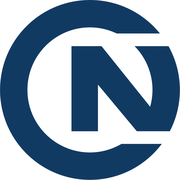
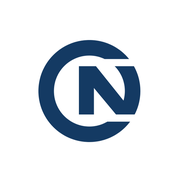
Add files via upload

diff --git a/index.html b/index.html
@@ -667,11 +667,11 @@ a{text-decoration:none;color:inherit}
     <div class="form-card">
       <h3>🔄 Recent Updates</h3>
       <div style="font-size:12px;color:#555;line-height:1.7">
+        <p style="margin:0 0 8px"><b>v50</b> — Home screen app icon replaced with the company logo; the role badge next to the user name now shows the user's actual role.</p>
         <p style="margin:0 0 8px"><b>v49</b> — Fixed deleted leads resurrecting: deletion/trash state is now applied from the central settings record on every read, so a deleted lead stays deleted on every device regardless of table schema.</p>
         <p style="margin:0 0 8px"><b>v48</b> — Cloud-direct data layer: no local storage at all. Every page fetches live data from the central database and every change is written to it immediately — deleted leads and users can never reappear.</p>
         <p style="margin:0 0 8px"><b>v47</b> — Complete sync engine overhaul: serialized queue (no more race conditions), fetch timeouts (no more frozen sync), tombstones for deleted/trashed leads, admin event applies to all users, users no longer mass-pushed (fixes role resets permanently).</p>
         <p style="margin:0 0 8px"><b>v46</b> — HEIC photo support for Scan from Image; badge scan now also reads printed text on badges; deleted categories can no longer reappear; user role changes sync correctly; categories sorted alphanumerically.</p>
-        <p style="margin:0 0 8px"><b>v45</b> — Browser Back button now returns to Dashboard instead of leaving the app; visiting card name/designation parsing fixed; image loading made more reliable across phones.</p>
       </div>
     </div>
 

diff --git a/app.js b/app.js
@@ -5,7 +5,7 @@
 
 const DB_NAME = 'CircuitNetDB';
 const DB_VERSION = 2;
-const APP_VERSION = 'circuitnet-v49';
+const APP_VERSION = 'circuitnet-v50';
 const DEFAULT_CATEGORIES = ['PCB Manufacturing','Multilayer PCB','High-TG','RF/High Frequency','Flex','Rigid-Flex','HDI','Metal Core','Ceramic','PCB Assembly','Prototype','Volume Production','PCB Testing/Lab','Other'];
 const DEFAULT_VOLUMES = ['Prototype','Small','Medium','High','Unknown'];
 const DEFAULT_TIMELINES = ['Immediate','1 Month','1–3 Months','3–6 Months','>6 Months','Unknown'];
@@ -1076,7 +1076,7 @@ const App = {
     // Keep a history state so the browser Back button stays inside the app
     try { window.history.pushState({ cnApp: true }, ''); } catch(e) {}
     document.getElementById('drawerUserName').textContent = currentUser.name;
-    document.getElementById('drawerUserRole').textContent = currentUser.role === 'admin' ? 'Admin' : 'Salesperson';
+    document.getElementById('drawerUserRole').textContent = currentUser.role.replace(/\b\w/g, function(c){ return c.toUpperCase(); });
     document.getElementById('hdrAvatar').textContent = currentUser.name.charAt(0).toUpperCase();
     // Show/hide admin items
     const adminItems = document.querySelectorAll('.admin-only');

diff --git a/sw.js b/sw.js
@@ -1,4 +1,4 @@
-const CACHE_NAME = 'circuitnet-v49';
+const CACHE_NAME = 'circuitnet-v50';
 const ASSETS = [
   './',
   './index.html',
